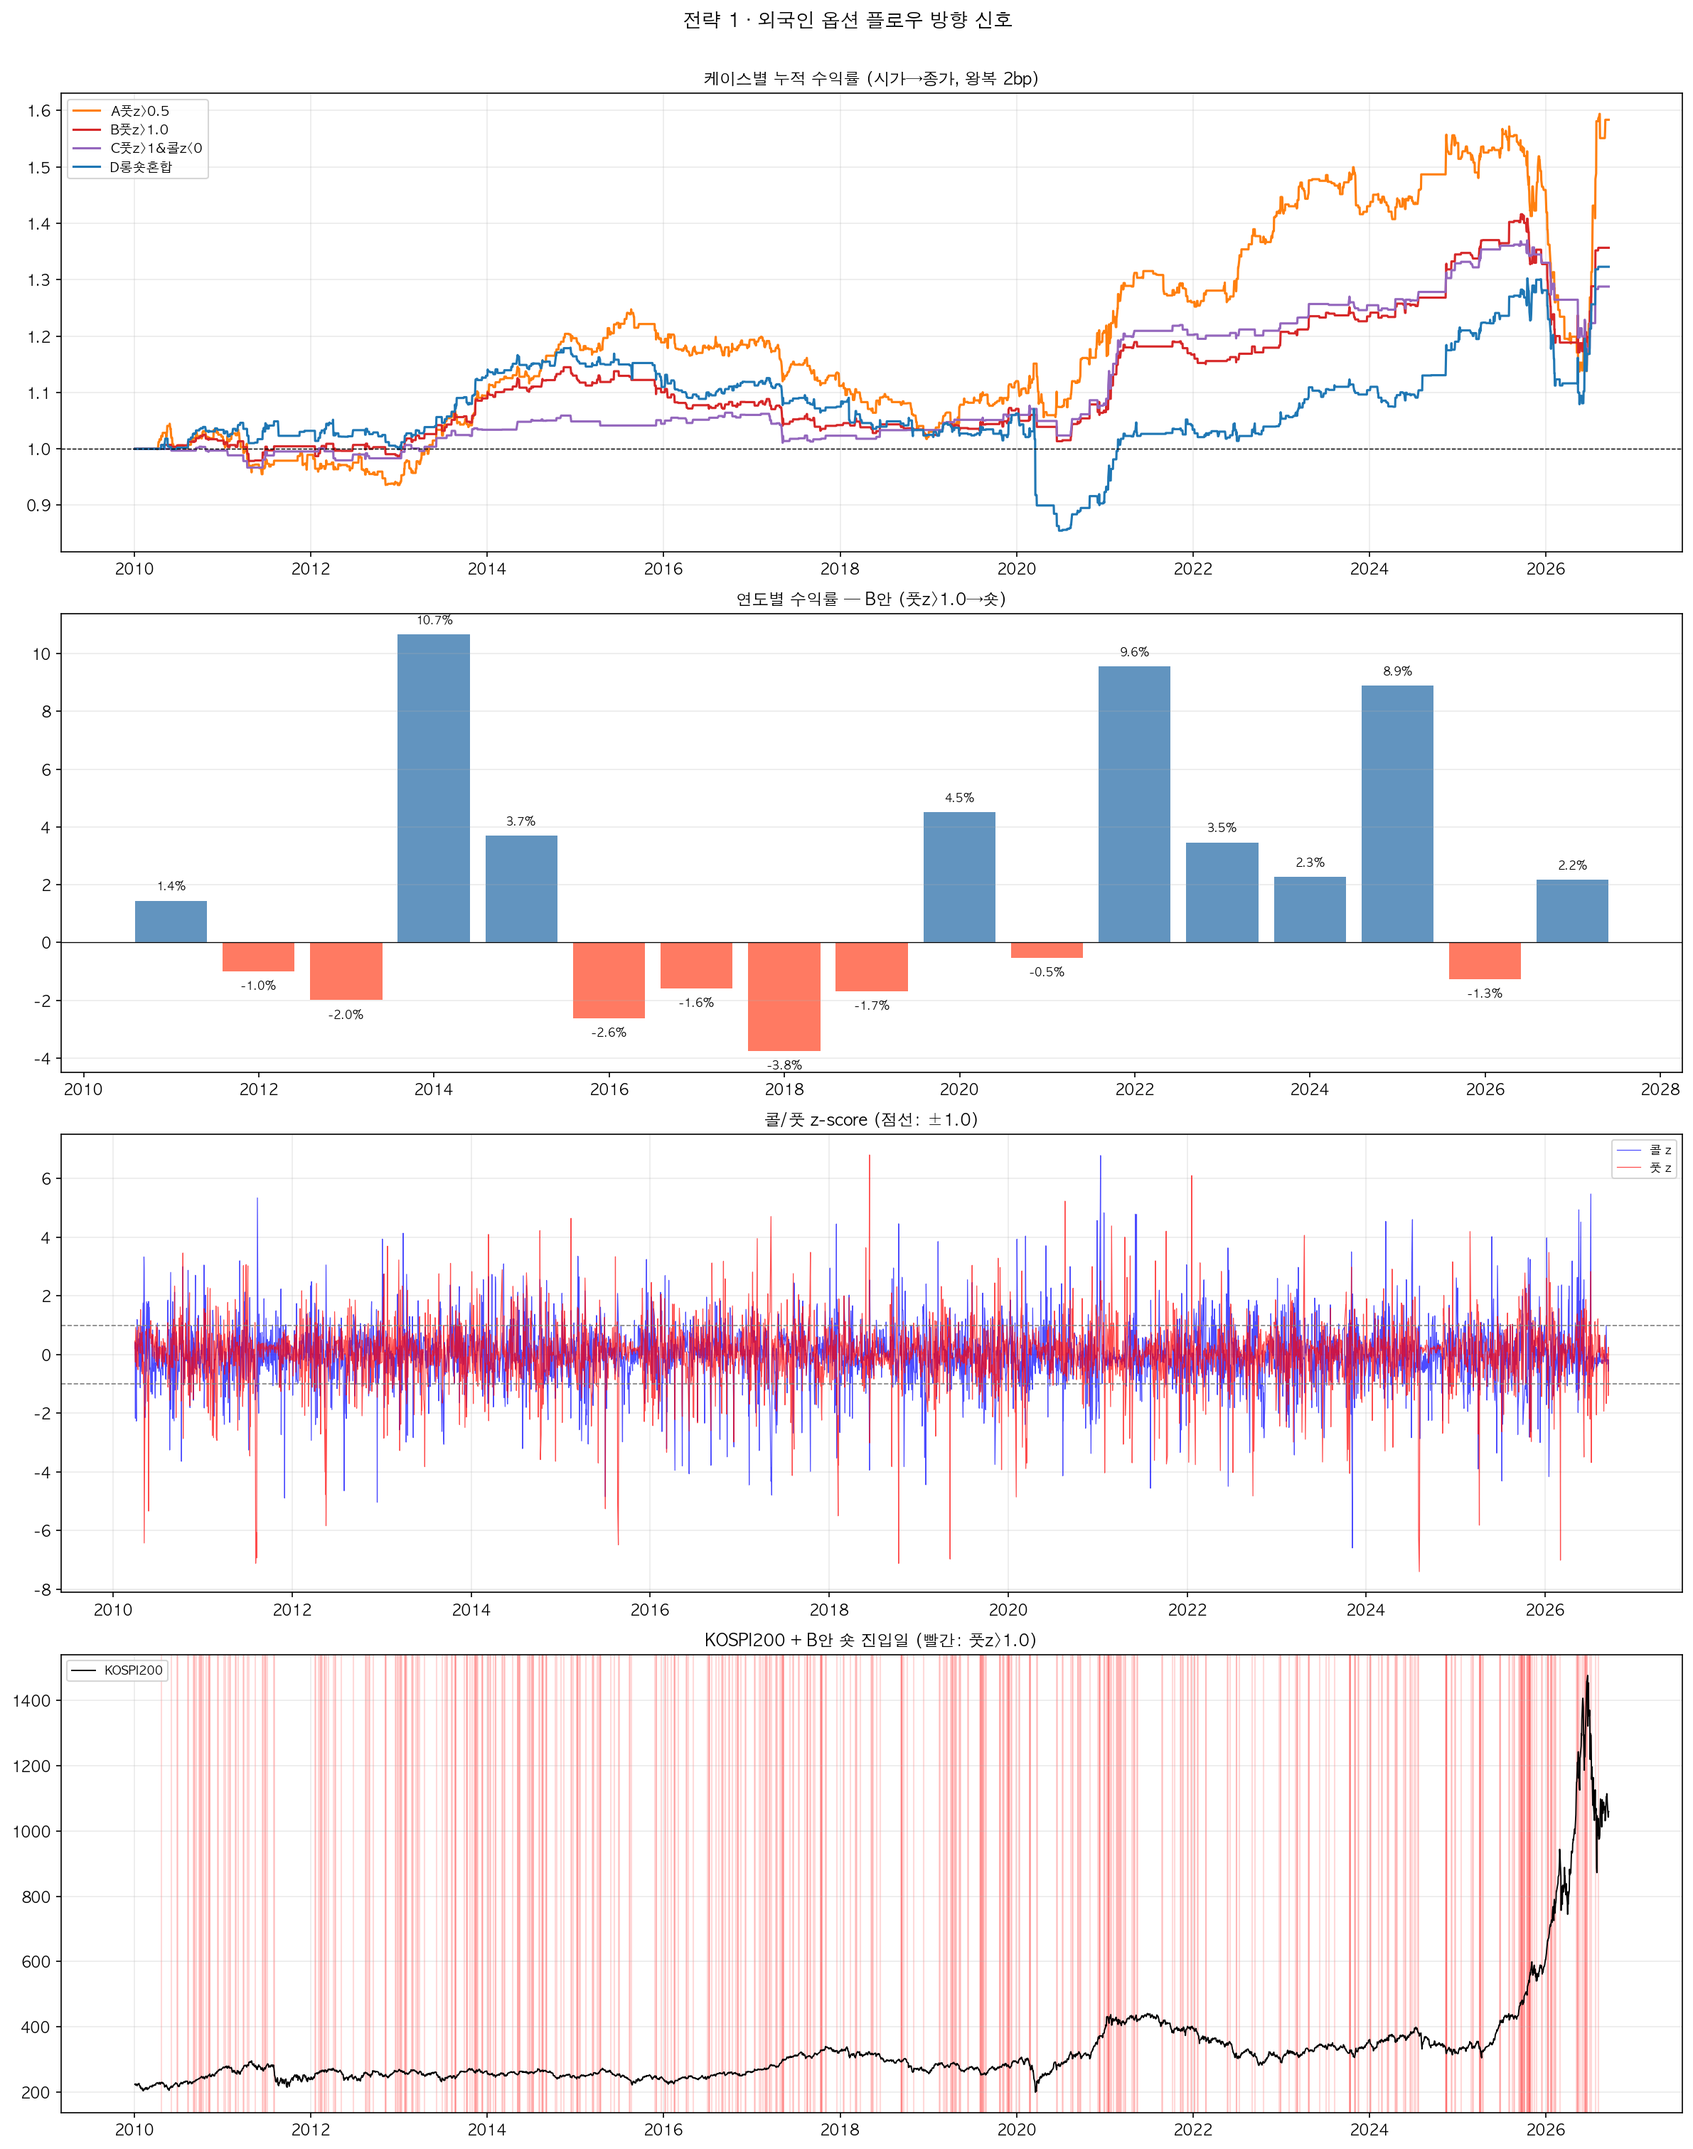
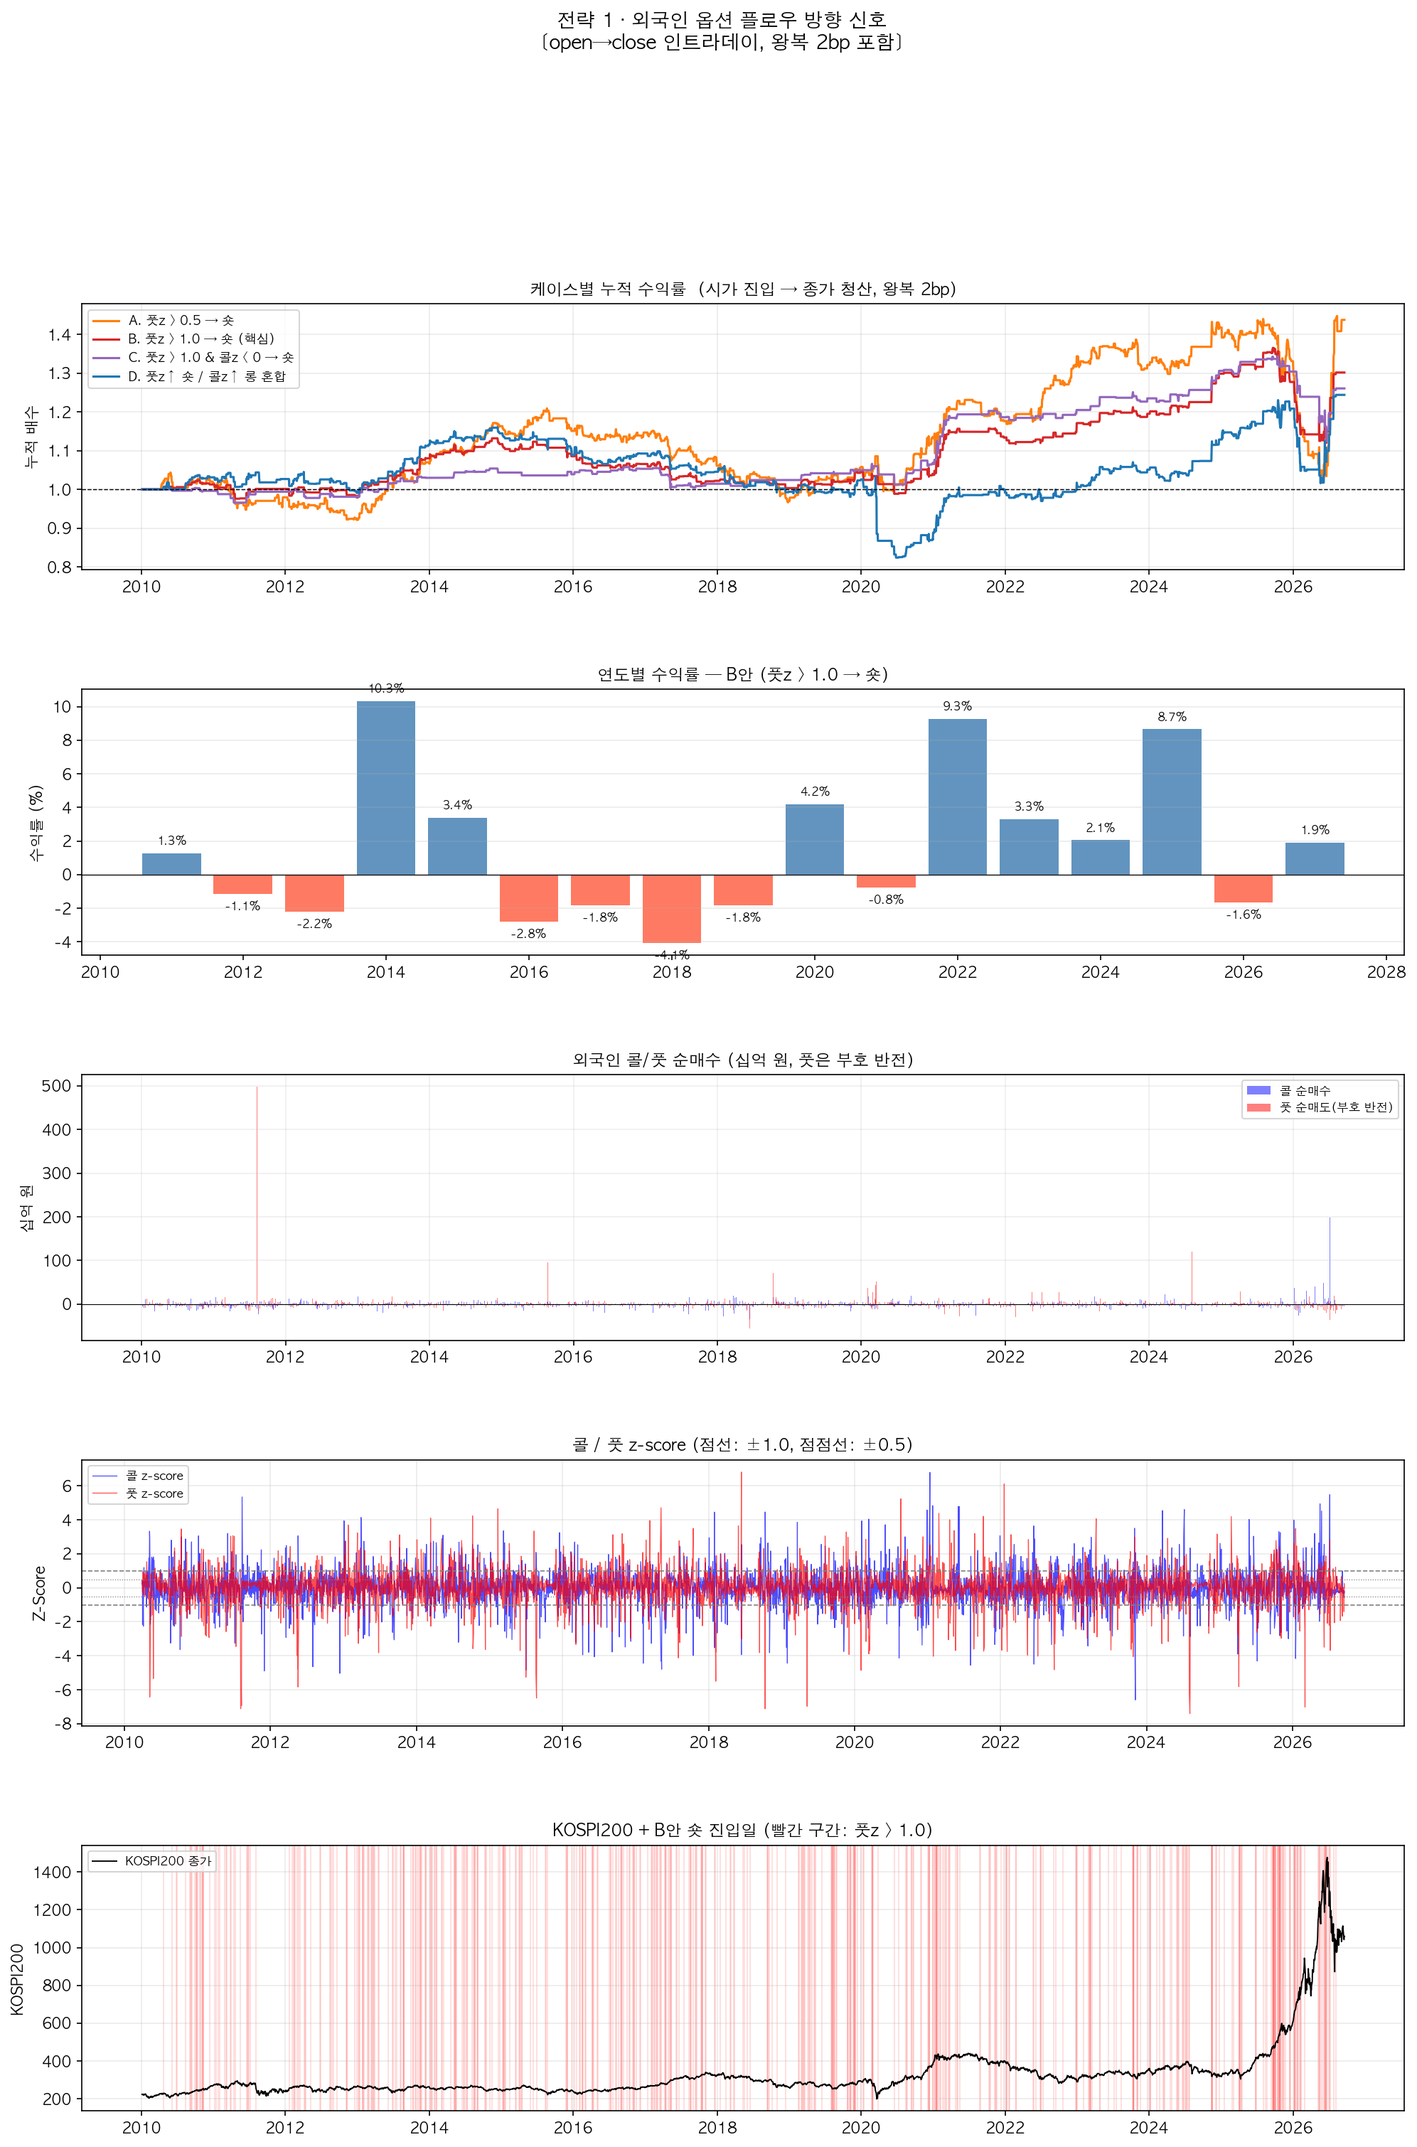
overnight_strategy_A: rename 연환산수익률 → CAGR in metrics output

diff --git a/sunny/overnight_strategy_A/overnight_strategy_A.py b/sunny/overnight_strategy_A/overnight_strategy_A.py
@@ -272,12 +272,12 @@ def metrics(cum: pd.Series, net: pd.Series) -> dict:
     win_rate = (net[net != 0] > 0).mean()
     n_trades = int((net != 0).sum())
     return {
-        "연환산수익률": f"{ann_ret:+.2%}",
-        "연변동성":     f"{ann_vol:.2%}",
-        "샤프지수":     f"{sharpe:+.3f}",
-        "최대낙폭":     f"{max_dd:.2%}",
-        "승률":         f"{win_rate:.2%}",
-        "거래횟수":     n_trades,
+        "CAGR":     f"{ann_ret:+.2%}",
+        "연변동성":  f"{ann_vol:.2%}",
+        "샤프지수":  f"{sharpe:+.3f}",
+        "최대낙폭":  f"{max_dd:.2%}",
+        "승률":      f"{win_rate:.2%}",
+        "거래횟수":  n_trades,
     }
 
 
@@ -359,7 +359,7 @@ def main():
         print("=" * 68)
         print(tabulate(perf, headers="keys", tablefmt="simple",
                        stralign="right", numalign="right"))
-        print("=" * 68)
+        print("=" * 70)
     except ImportError:
         print(perf.to_string())
 
